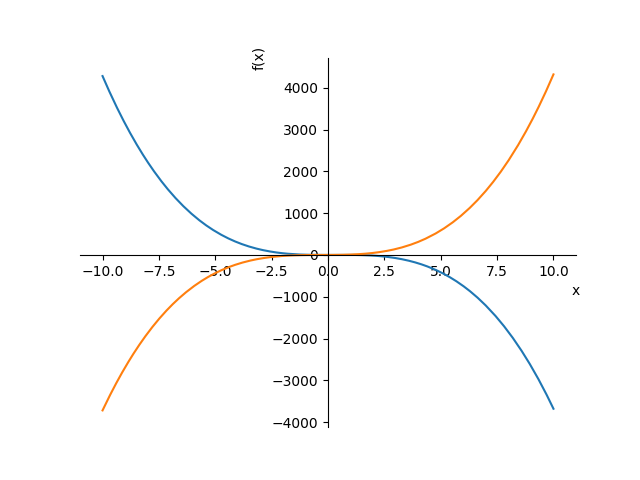
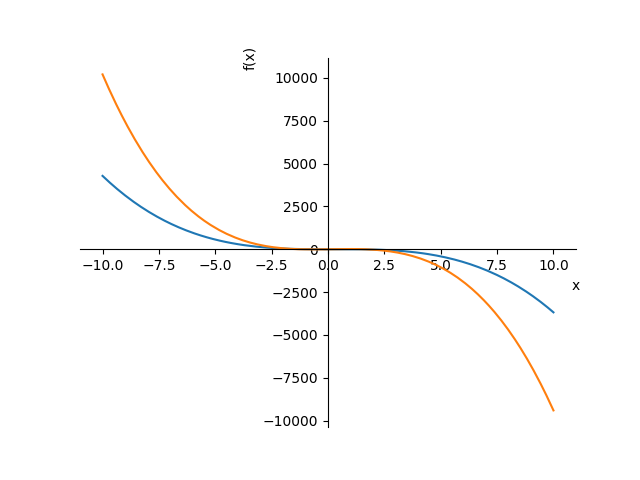
Adding multinomial operations to convert into a string into sympy polynomial

diff --git a/src/Components/Polynomial.js b/src/Components/Polynomial.js
@@ -1,15 +1,5 @@
 import React from 'react';
 import './interface.css';
-// import axios from 'axios '
-
-function min(a, b) {
-    if (a > b) {
-        return b
-    }
-    else {
-        return a
-    }
-}
 
 class Polynomial extends React.Component {
     constructor() {
@@ -27,7 +17,8 @@ class Polynomial extends React.Component {
     }
 
     setChoice(event) {
-        this.setState({ choice: Number(event.target.value) });
+        this.setState({ choice: Number(event.target.value), answer:"" });
+        
 
     }
 
@@ -41,10 +32,6 @@ class Polynomial extends React.Component {
 
     handleSubmit(event) {
         event.preventDefault();
-        var poly1 = this.state.poly1
-        var poly2 = this.state.poly2
-        var choice = this.state.choice
-        var answer = ""
         // alert("submit clicked")
 
 
@@ -154,7 +141,7 @@ class Polynomial extends React.Component {
                             <h6>Answer</h6>
                             <p>{this.state.answer}</p>
                             {
-                                this.state.choice === 13 ? <img src="D:\mama\addition\src\img\polynomialdraw.png"></img> : <></>
+                                this.state.choice === 13 ? <img src="src\img\polynomialdraw.png" alt="graphs"></img> : <></>
                             }
                             
                         </div>

diff --git a/api/modules/multinomial.py b/api/modules/multinomial.py
@@ -1,9 +1,32 @@
+# from sympy import *
 import sympy
 import math
-import scipy
+# import scipy
 import numpy as np
 
 sympy.init_printing()
+
+# Pass the symbols to be as arguments to the symbols() function
+# and store them in corresponding variables.
+# x, y = sympy.symbols('x, y')
+
+def findMatchingParenthesis(str,i):
+    """
+    str: string
+    i: index of opening parenthesis
+    return: index of closing parenthesis
+    
+    """
+    count=0
+    while(i<len(str)):
+        if(str[i]=="("):
+            count+=1
+        elif(str[i]==")"):
+            count-=1
+        if(count==0):
+            return i
+        i+=1
+    return -1
 
 def stringToStrEquation(str):
     """
@@ -12,23 +35,48 @@ def stringToStrEquation(str):
     str= str.replace(" ","")
     str= str.replace("^","**")
     eq=""
-    # print(str)
+    print(str)
     i=0
     while(i<len(str)):
-        if (str[i].isalpha()):
+        if(str[i:].startswith("sin") or str[i:].startswith("cos") or 
+            str[i:].startswith("tan") or str[i:].startswith("log") ):
             if(str[i-1].isdigit() or str[i-1].isalpha()):
+                eq= eq+"*"
+            # print(eq)
+            # eq=eq+"sympy."+str[i:i+3]
+            eq=eq+str[i:i+3]
+            # print(eq)
+            i+=2
+        elif(str[i:].startswith("sqrt")):
+            if(str[i-1].isdigit() or str[i-1].isalpha()):
+                eq= eq+"*"
+            eq=eq+"sqrt"
+            i+=3
+        elif (str[i].isalpha()):
+            if (i+1<len(str) and str[i+1]=="("):
+                eq=eq+str[i]+"*"
+                # print("eq(",eq)
+            elif(i>0 and (str[i-1].isdigit() or str[i-1].isalpha())):
+                # print("str",str)
                 eq= eq+"*"+str[i]
+                # print("eq*",eq,str[i-1],str[i],i,i-1)
             else:
                 eq=eq+str[i]
+                # print("eqelse",eq)
+
+            # print(eq)
         elif (str[i]=="("):
             # check if eq endswith a variable or a number power to a variable
-            if (eq[-1].isalpha() or (eq[-1].isdigit() and eq[-2]=="*" and eq[-3]=="*" ) ):
+            if ((not eq.endswith("sin")) or (not eq.endswith("cos")) or (not eq.endswith("tan")) or (not eq.endswith("log")) or (not eq.endswith("sqrt"))):
+                pass
+            elif (eq[-1].isalpha() or eq[-1].isdigit() and eq[-2]=="*" and eq[-3]=="*" ):
                 eq=eq+"*"
 
             # solve the paranthesis
-            k=i+1
-            while(k<len(str) and str[k]!=')'):
-                k+=1
+            # k=i+1
+            # while(k<len(str) and str[k]!=')'):
+            #     k+=1
+            k=findMatchingParenthesis(str,i)
             new=str[i+1:k]
             # print(k)
             i=k
@@ -38,8 +86,9 @@ def stringToStrEquation(str):
             eq=eq+new
 
             # check if there is a variable followed by bracket in the str or another bracket
-            if (k+1<len(str) and (str[k+1].isalpha() or str[k+1]=="(")):
+            if (k+1<len(str) and (str[k+1].isalpha() or str[k+1]=="(" )):
                 eq=eq+"*"
+                # print(eq)
         else:
             eq=eq+str[i]
         # print(eq,i)
@@ -49,11 +98,15 @@ def stringToStrEquation(str):
 
             
       
-k=stringToStrEquation("+4x^2y^3 ( +7x )(6x) -3xy^5* ( +1x^5 +5x -1 ) ")
-# print(k) 
+k=stringToStrEquation("4x^2y^3 sin(6x+1)( 6x )(x) -3xy^5* ( +1x^5 +5x -1 ) ")
+print(k) 
 eq=sympy.sympify(k)
+print(eq)
 eq= sympy.simplify(eq)
-# print(eq)
+print(eq)
+# x=sympy.Symbol("x")
+# p=sympy.sin(x)
+# print(p)
 
 def getCoefIndex(str):
         if(len(str) == 0):
@@ -305,6 +358,12 @@ class Multinomial():
         result = sympy.solve(self.poly_exp)
         # print(result)
         return result  # list
+    
+    def solve(self,other):
+        """
+        Solves 2 polynomials
+        """
+        
 
     def draw(self):
         """
